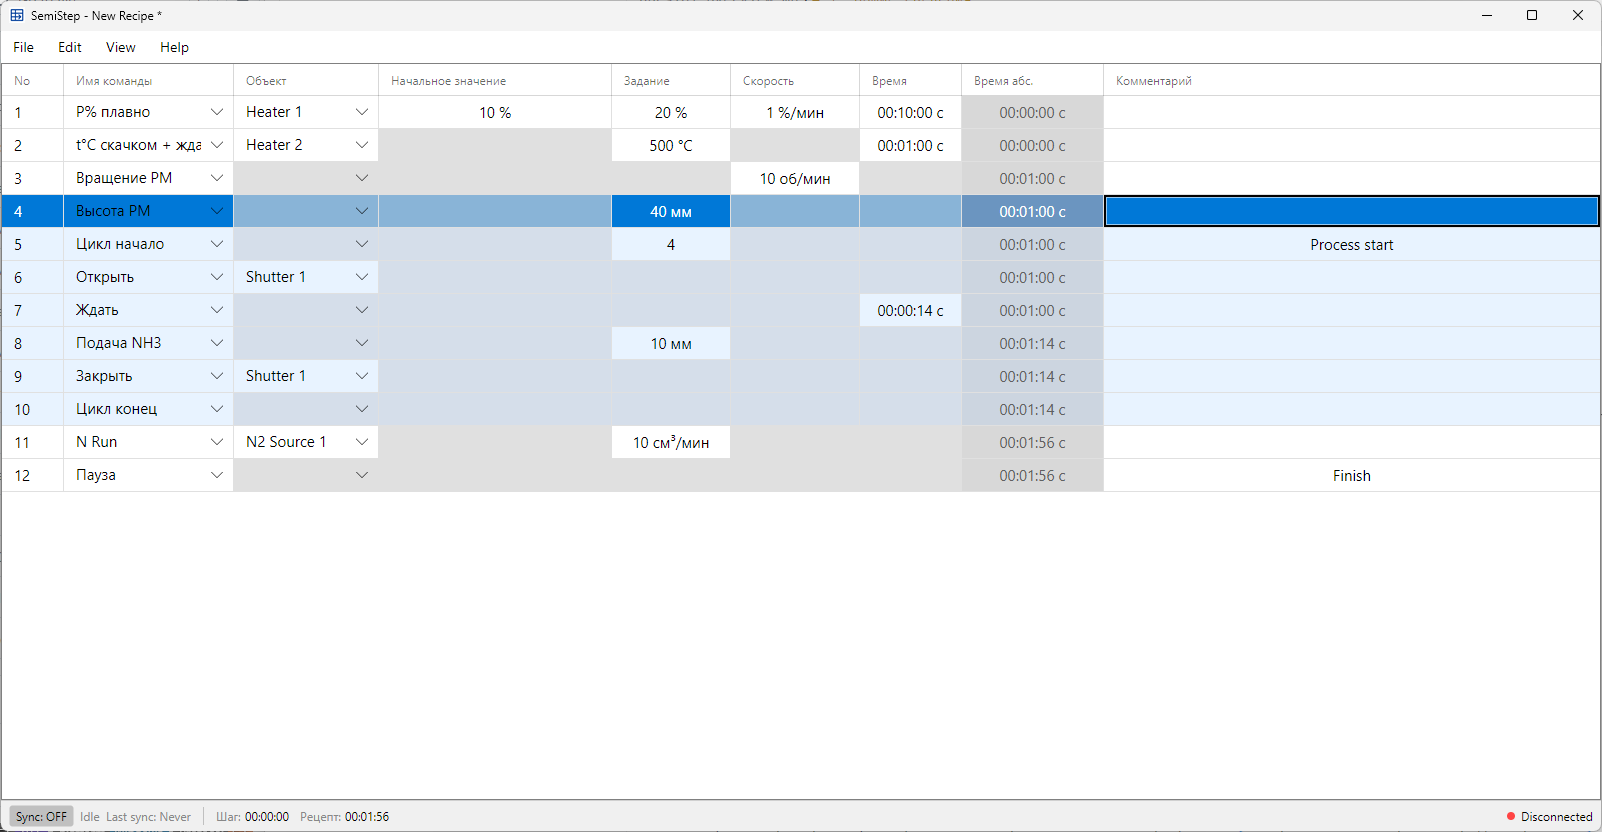
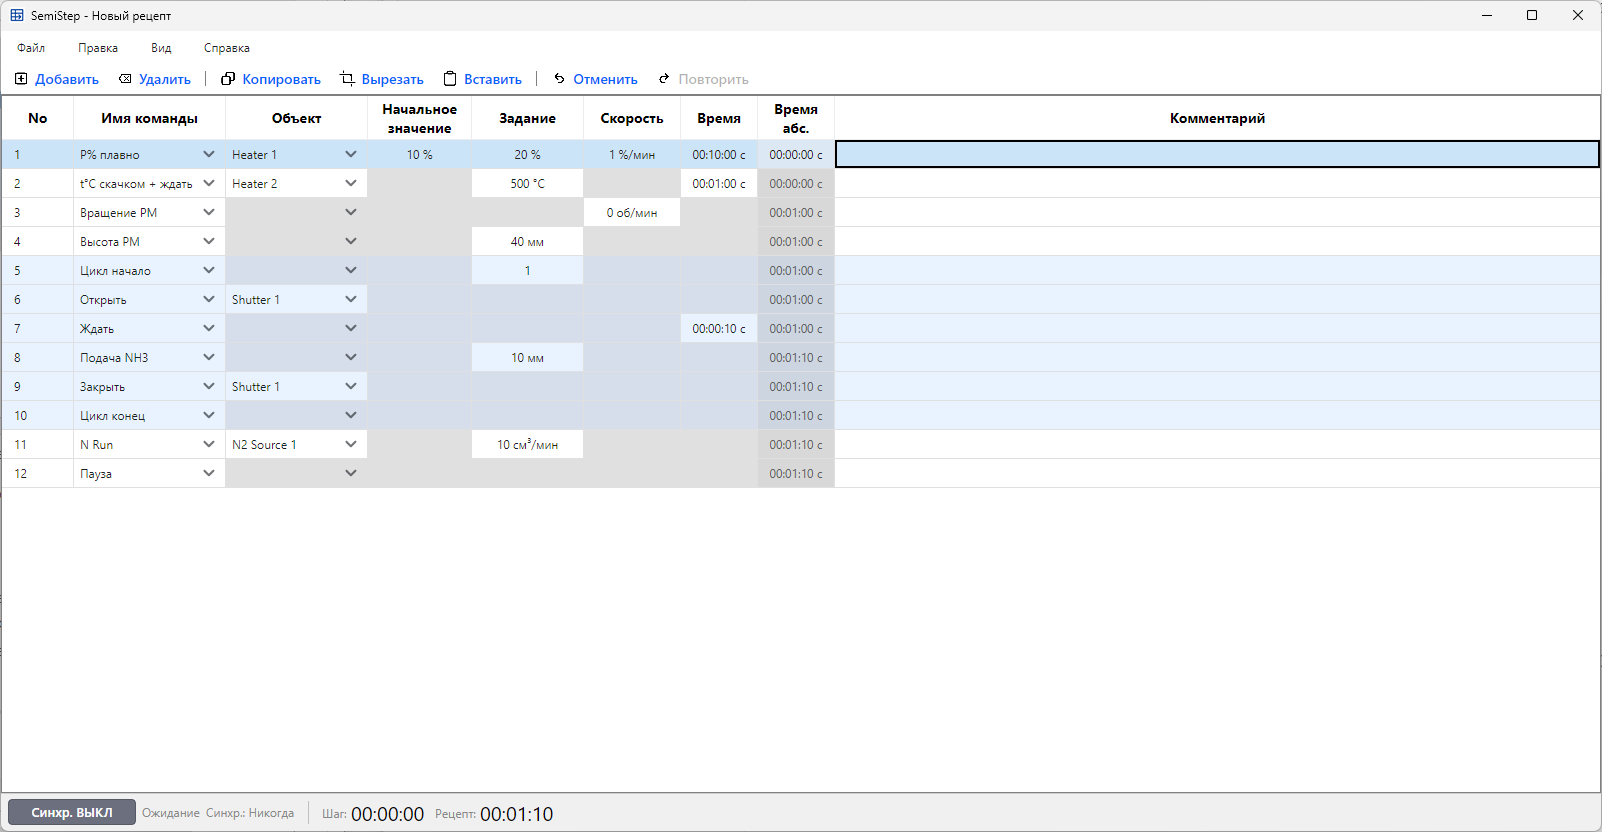
docs: update README and user manual for v0.4.0, refresh and add screenshots (#105)
- README: refresh capabilities (multi-language UI, in-app style editor,
  nested subactions, row-actions toolbar, merged sync/connection button,
  configurable fonts, JetBrains visual style); add style-editor, connection
  and connection-error screenshots.
- User manual: reflect localization (ui/app.yaml), flat visual style,
  toolbar; document app.yaml (locale); place screenshots in the window,
  error-handling and style sections.
- Move error-reporting.md into Docs/architecture/ (technical note, not
  user-facing) and embed the connection-error screenshot there.
- Architecture: embed the style-editor shot in grid-style-configuration.
- Refresh the three MOCVD/RIE/MBE example screenshots to the current UI;
  add the MBE and MOCVD example recipes used to stage them.

diff --git a/Docs/readme.md b/Docs/readme.md
@@ -44,6 +44,7 @@
     - [6.6. groups](#66-groups)
     - [6.7. actions](#67-actions)
     - [6.8. grid_style.yaml](#68-grid_styleyaml)
+    - [6.9. app.yaml](#69-appyaml)
 - [7. Протокол S7 — техническая спецификация](#7-протокол-s7--техническая-спецификация)
     - [7.1. Определения](#71-определения)
     - [7.2. Транспорт и типы данных](#72-транспорт-и-типы-данных)
@@ -110,12 +111,17 @@ _Окна разных установок (MBE, MOCVD, RIE) используют
 ![Окно установки MOCVD](./img/mocvd_example.png)
 _Окно установки MOCVD._
 
+Интерфейс выполнен в плоском визуальном стиле (в духе JetBrains): без объёмных рамок и градиентов, с единым набором цветов и шрифтов. Язык интерфейса задаётся в конфигурации (`ui/app.yaml`, раздел 6.9); по умолчанию — русский, опционально доступен английский. Локализуется оформление приложения (меню, панель инструментов, подписи статус-бара, диалоги); названия столбцов и действий берутся из конфигурации установки (`ui_name`) и не переводятся.
+
 В каждом окне:
 
 - основная область с табличным представлением рецепта;
-- панель инструментов с основными командами для данного типа окна;
+- панель инструментов с основными командами (панель действий над строками), включаемая из меню «Вид»;
 - статус-бар с индикацией подключения к ПЛК и состояния синхронизации;
 - панель сообщений/логов.
+
+![Главное окно с рецептом в состоянии «Подключение…»](./img/app_connection_example.png)
+_Главное окно с загруженным рецептом: идёт установление связи с ПЛК («Подключение…»), внизу — панель валидации._
 
 ---
 
@@ -369,6 +375,9 @@ _Окно установки RIE._
 | Обрыв связи на середине записи | Рецепт в ПЛК остаётся незафиксированным; при реконнекте — полная перезапись |
 | Таймаут подключения            | Сообщение пользователю, повтор подключения                                  |
 
+![Сообщение об ошибке соединения в панели уведомлений](./img/app_net_error_example.png)
+_Сообщение об ошибке соединения с ПЛК в панели уведомлений._
+
 [↑ К содержанию](#содержание)
 
 ---
@@ -413,7 +422,7 @@ _Окно установки RIE._
 | `columns/`    | Столбцы таблицы рецепта                               | 6.5    |
 | `groups/`     | Списки значений для выпадающих списков (объекты/цели) | 6.6    |
 | `actions/`    | Типы действий (шагов) рецепта                         | 6.7    |
-| `ui/`         | Оформление таблицы (`grid_style.yaml`)                | 6.8    |
+| `ui/`         | Оформление таблицы (`grid_style.yaml`) и язык интерфейса (`app.yaml`) | 6.8, 6.9 |
 
 Поставляемые образцы (`MBE`, `MOCVD`, `RIE`) можно использовать как шаблоны.
 
@@ -692,6 +701,27 @@ heater:
 - `execution` дополнительно — `current_step_marker` (маркер текущего шага, раздел 2.6.2).
 
 Прочие секции (`fonts`, `layout`, `colors.selection`, `colors.rows`, `colors.grid_line`, `borders`, `status_bar`, `validation_panel`) при отсутствии заменяются значениями по умолчанию и старт не блокируют.
+
+Значения `grid_style.yaml` (размеры строк и колонок, шрифты, цвета) редактируются как вручную, так и через встроенное окно **«Настройки стиля таблицы»** (меню «Вид» → «Настройки стиля таблицы…»): изменения применяются к таблице и сохраняются в этот файл.
+
+![Окно «Настройки стиля таблицы»](./img/visual_style_window.png)
+_Встроенный редактор стиля таблицы: размеры, шрифты и цвета._
+
+---
+
+### 6.9. `app.yaml`
+
+Задаёт язык интерфейса приложения. Файл располагается в каталоге `ui/` рядом с `grid_style.yaml` и **необязателен**: при его отсутствии, отсутствии ключа или недопустимом значении применяется русский язык.
+
+| Ключ     | Обяз. | Значение                            | Пример |
+| -------- | ----- | ----------------------------------- | ------ |
+| `locale` | нет   | Код языка интерфейса (`ru` \| `en`) | `ru`   |
+
+Локализуется только оформление приложения (меню, панель инструментов, подписи статус-бара, диалоги). Названия столбцов и действий берутся из `ui_name` конфигурации установки и не переводятся; форматы чисел, времени и записи журнала остаются инвариантными независимо от языка.
+
+```yaml
+locale: ru
+```
 
 [↑ К содержанию](#содержание)
 

diff --git a/readme.md b/readme.md
@@ -7,7 +7,7 @@
 ![Platform](https://img.shields.io/badge/platform-Windows-informational)
 ![Protocol](https://img.shields.io/badge/Protocol-S7-orange)
 
-SemiStep — самостоятельное Windows-приложение для редактирования и исполнения технологических рецептов на промышленных установках роста и постростовой обработки на базе Siemens PLC. Работает независимо от SCADA-системы и взаимодействует с контроллером напрямую по протоколу S7.
+SemiStep — визуальное приложение для редактирования и исполнения технологических рецептов на промышленных установках роста и постростовой обработки на базе Siemens PLC. Работает независимо от SCADA-системы и взаимодействует с контроллером напрямую по протоколу S7.
 
 <div align="center">
     <img src=./logo.png width=400 />
@@ -23,11 +23,20 @@ SemiStep — самостоятельное Windows-приложение для 
 
 - Табличное редактирование с поддержкой отмены/повтора, копирования/вставки и навигации с клавиатуры
 - Inline-пересчёт формул: при изменении одной ячейки связанные параметры шага пересчитываются автоматически
+- Вложенные поддействия (поколения): состав строки ветвится в зависимости от выбранного действия и селектора
+- Подсветка ячеек с дефолтными значениями при смене действия или селектора
+- Панель действий над строками рецепта (тулбар), включается из меню «Вид»
 
 **Конфигурация через YAML**
 
-- Набор столбцов, типы параметров, диапазоны значений, типы действий и визуальный стиль задаются в YAML-файлах — никаких изменений в коде для адаптации к новой установке или процессу не требуется
+- Набор столбцов, типы параметров, диапазоны значений, типы действий и визуальный стиль задаются в YAML-файлах
+- Встроенный редактор стиля таблицы
 - Каждая установка получает собственную конфигурацию; примеры на скриншотах ниже
+
+<div align="center">
+    <img src="./Docs/img/visual_style_window.png" width="800" />
+    <p><em>Встроенный редактор стиля таблицы</em></p>
+</div>
 
 **Синхронизация с ПЛК**
 
@@ -44,6 +53,18 @@ SemiStep — самостоятельное Windows-приложение для 
 - Проверка диапазонов и типов по каждой ячейке; сохранение и отправка в ПЛК заблокированы до устранения ошибок
 - Индивидуальное форматирование содержимого ячеек в зависимости от типа данных
 - Проверка целостности конфигурации при запуске; некорректный YAML блокирует старт приложения
+
+<div align="center">
+    <img src="./Docs/img/app_connection_example.png" width="800" />
+    <p><em>Подключение к ПЛК и панель валидации</em></p>
+</div>
+
+- Сообщения об ошибках связи выводятся в панель уведомлений
+
+<div align="center">
+    <img src="./Docs/img/app_net_error_example.png" width="800" />
+    <p><em>Сообщение об ошибке связи</em></p>
+</div>
 
 ---
 

diff --git a/Docs/architecture/grid-style-configuration.md b/Docs/architecture/grid-style-configuration.md
@@ -196,6 +196,9 @@ GridStyleEditorWindow
   so a hand-edited family or weight round-trips losslessly. `BuildRecord` rebuilds the record
   with `with` over the seeded source, so the mechanism still preserves any field that happened not to
   be surfaced.
+
+![In-app grid style editor](../img/visual_style_window.png)
+
 - **Facade.** `GridStyleEditorFacade` is the only public Core seam for the editor:
   `Load(configDir)` → `Result<GridStyleOptions>`, `Validate(GridStyleOptions)` → `Result`,
   `Save(configDir, GridStyleOptions)` → `Result`. The loader, validator, writer, and the ~12 DTOs stay

diff --git a/Docs/architecture/error-reporting.md b/Docs/architecture/error-reporting.md
@@ -6,6 +6,8 @@ How a failed operation reaches the user. Read this before adding a new error-sur
 
 `MessagePanelViewModel` holds two independent channels that it merges into one `Entries` list:
 
+![Connection error surfaced in the notification panel](../img/app_net_error_example.png)
+
 - **Transient operation channel** (`_operationEntry`). A single slot for the outcome of the most
   recent user-initiated operation. Written through `ReportError` / `ReportWarning` / `ReportSuccess`
   and cleared on the next successful mutation (`ClearOperation`). One operation entry at a time; a
